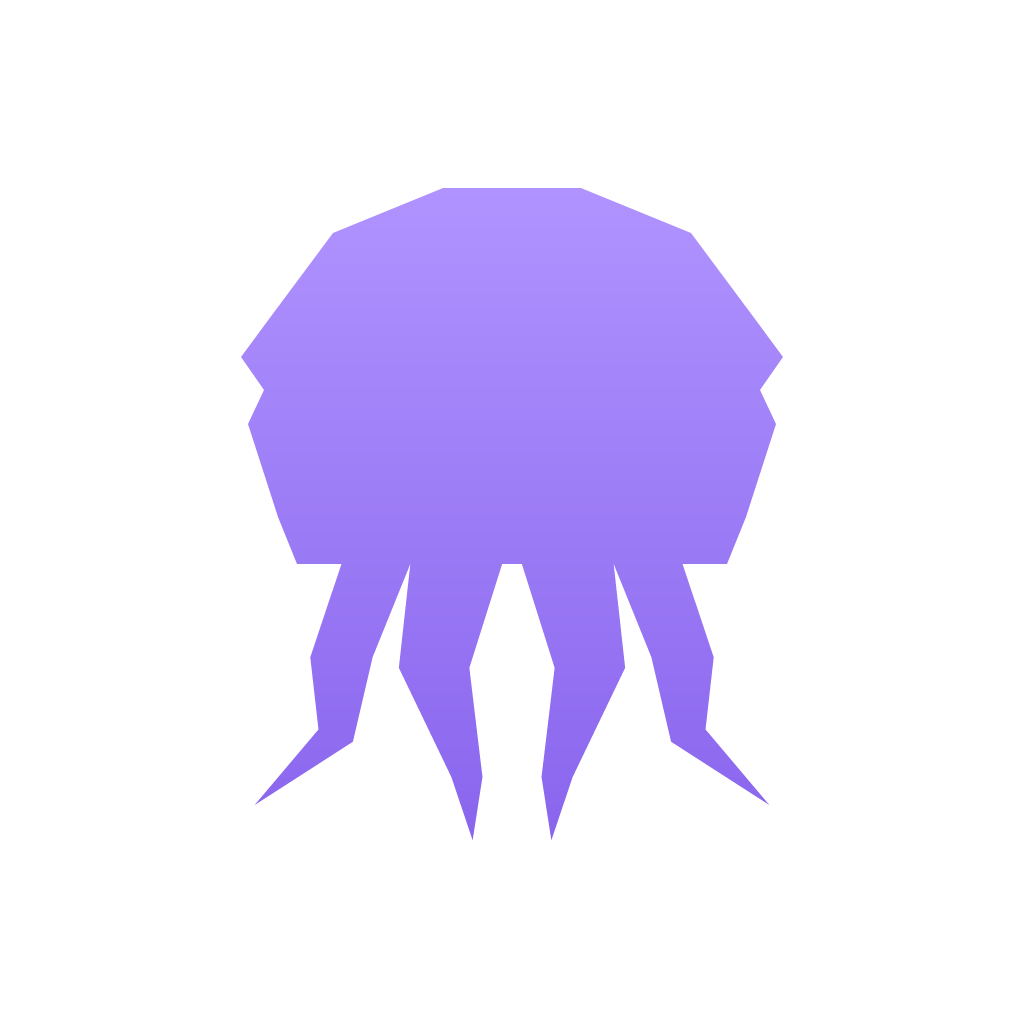
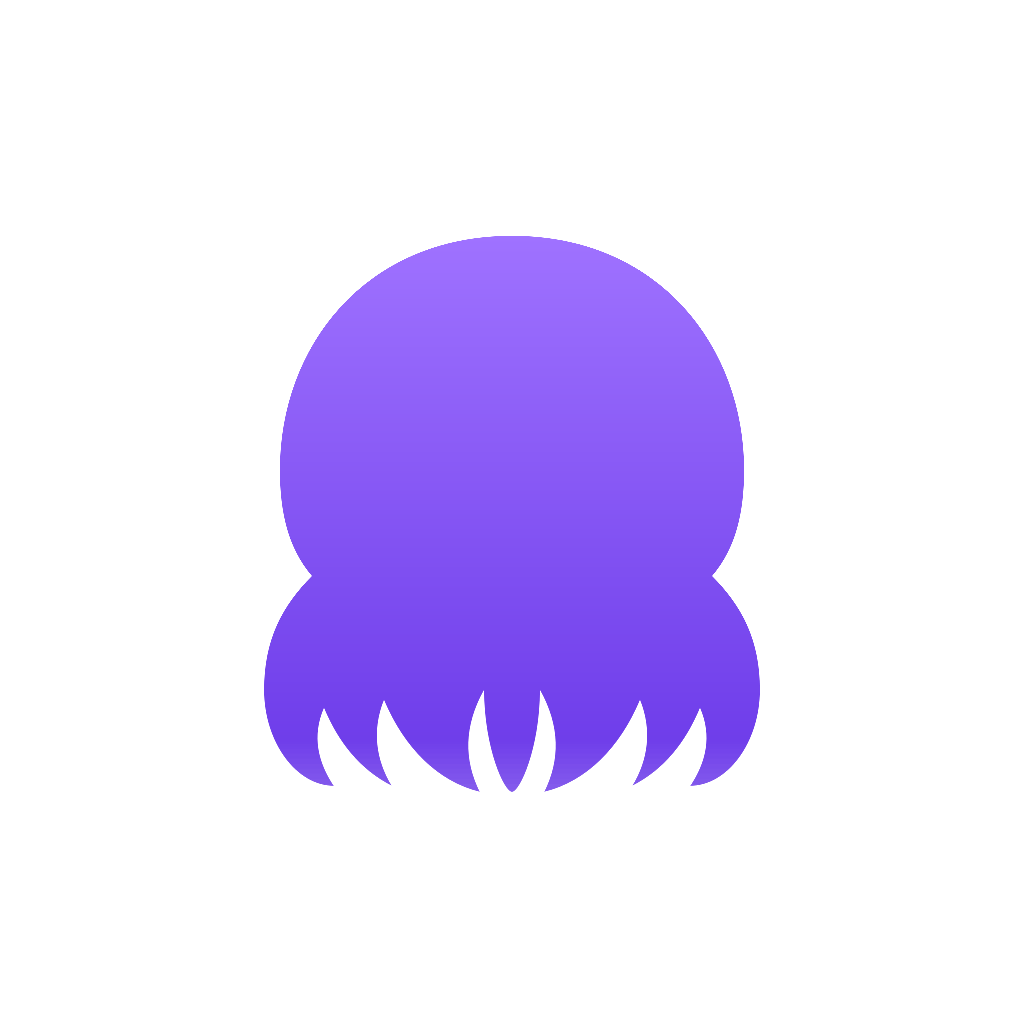
feat(ios): restore original circular kraken glyph in saturated purple
Carl's call after living with the zigzag: back to the true OG circular
soft-silhouette (bit-identical alpha to the first liquid glass glyph,
IoU 1.000) recolored with a richer vertical purple gradient
(#9F72FF -> #6A38E8, up from the pastel #B093FF -> #8965ED). The
retired zigzag mark's vector source is archived in ios/icons/ with a
README so past directions stay recoverable without git archaeology.
Usual two-PNG swap: glass layer + regenerated iOS 17/18 fallback.

Claude-Session: https://claude.ai/code/session_01EtNcRVDM8y8aRSP2LDg8do

Changed region(s): [[0.2188, 0.1562, 0.7812, 0.8125]]

diff --git a/ios/icons/README.md b/ios/icons/README.md
@@ -1,0 +1,9 @@
+# Icon archive
+
+Retired app-icon glyph sources, kept so past directions stay recoverable
+without digging through git history. The active icon lives in
+`ios/Kraken/AppIcon.icon/` (Liquid Glass) with its iOS 17/18 fallback in
+`Assets.xcassets/AppIcon.appiconset/`.
+
+- `zigzag-kraken.svg` — the faceted zigzag mark (shipped 2026-07-21,
+  retired same day for the original circular silhouette in saturated purple).
